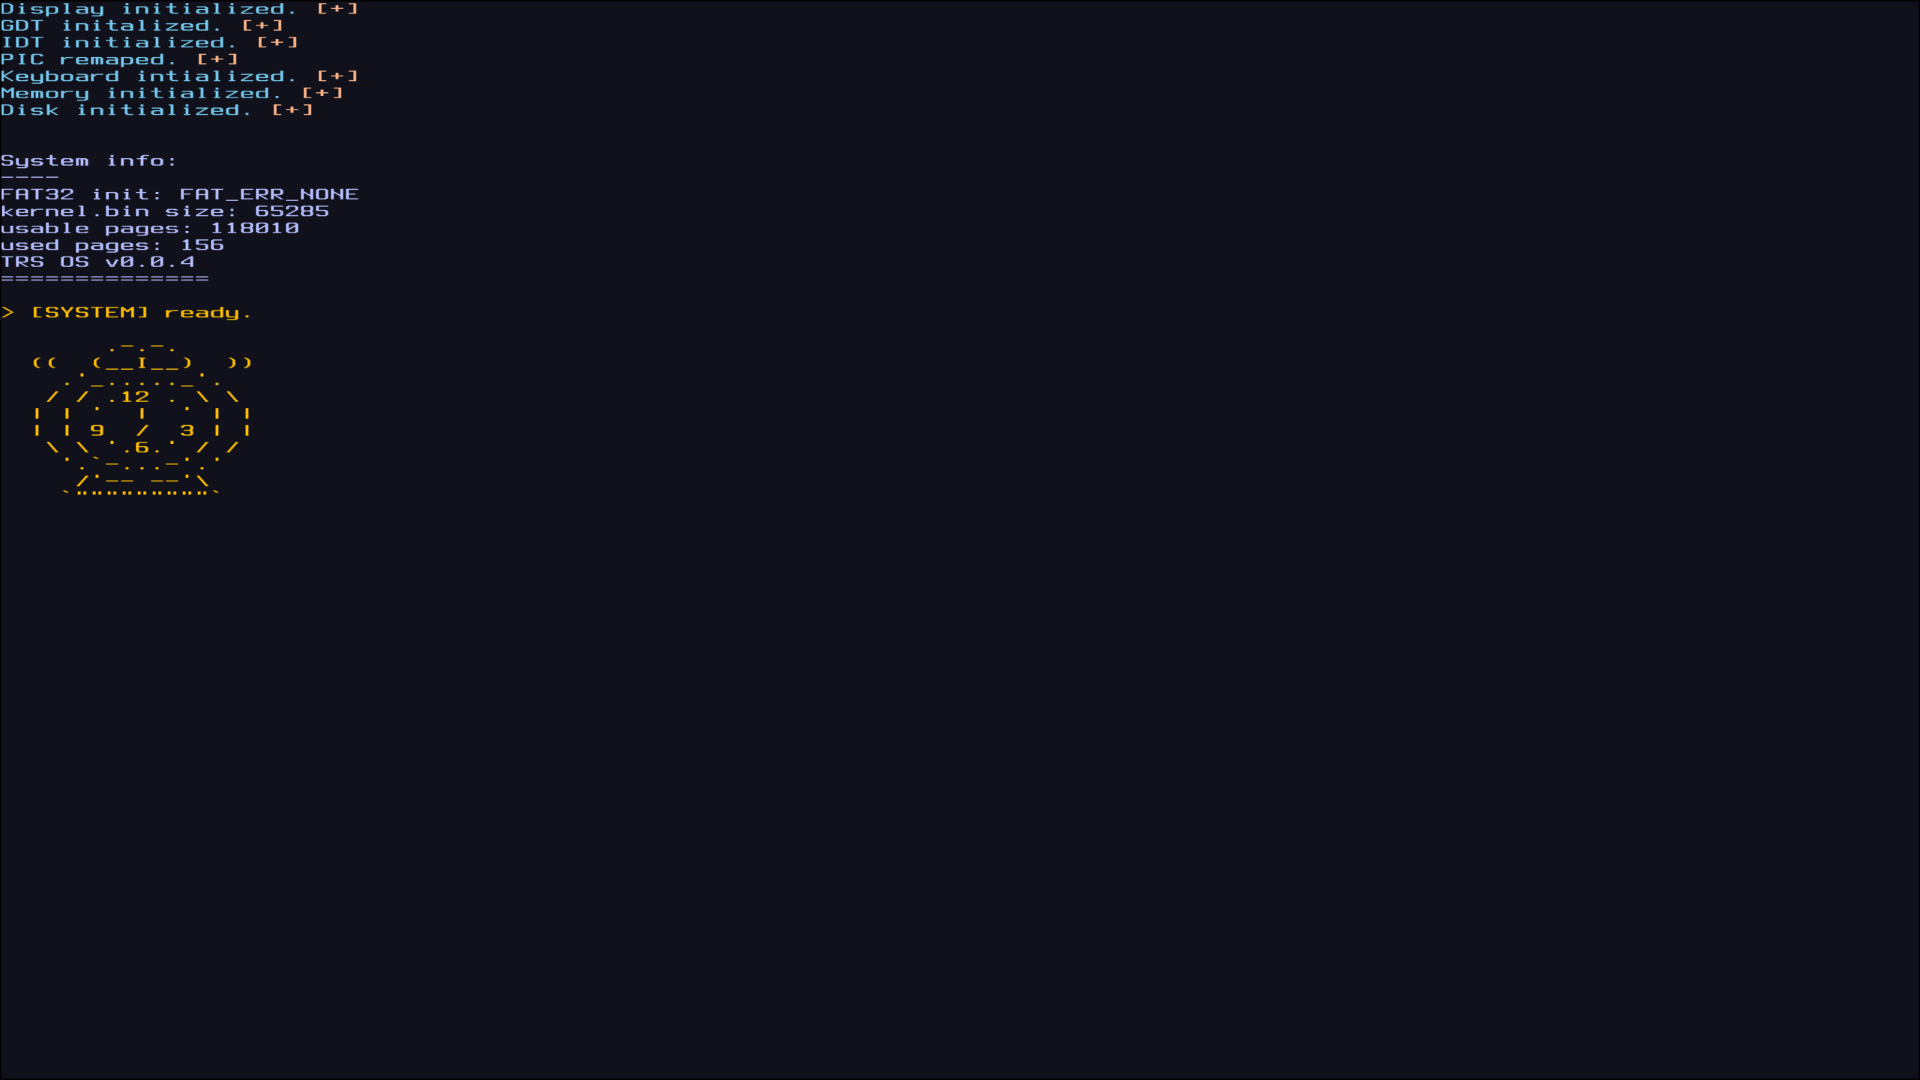
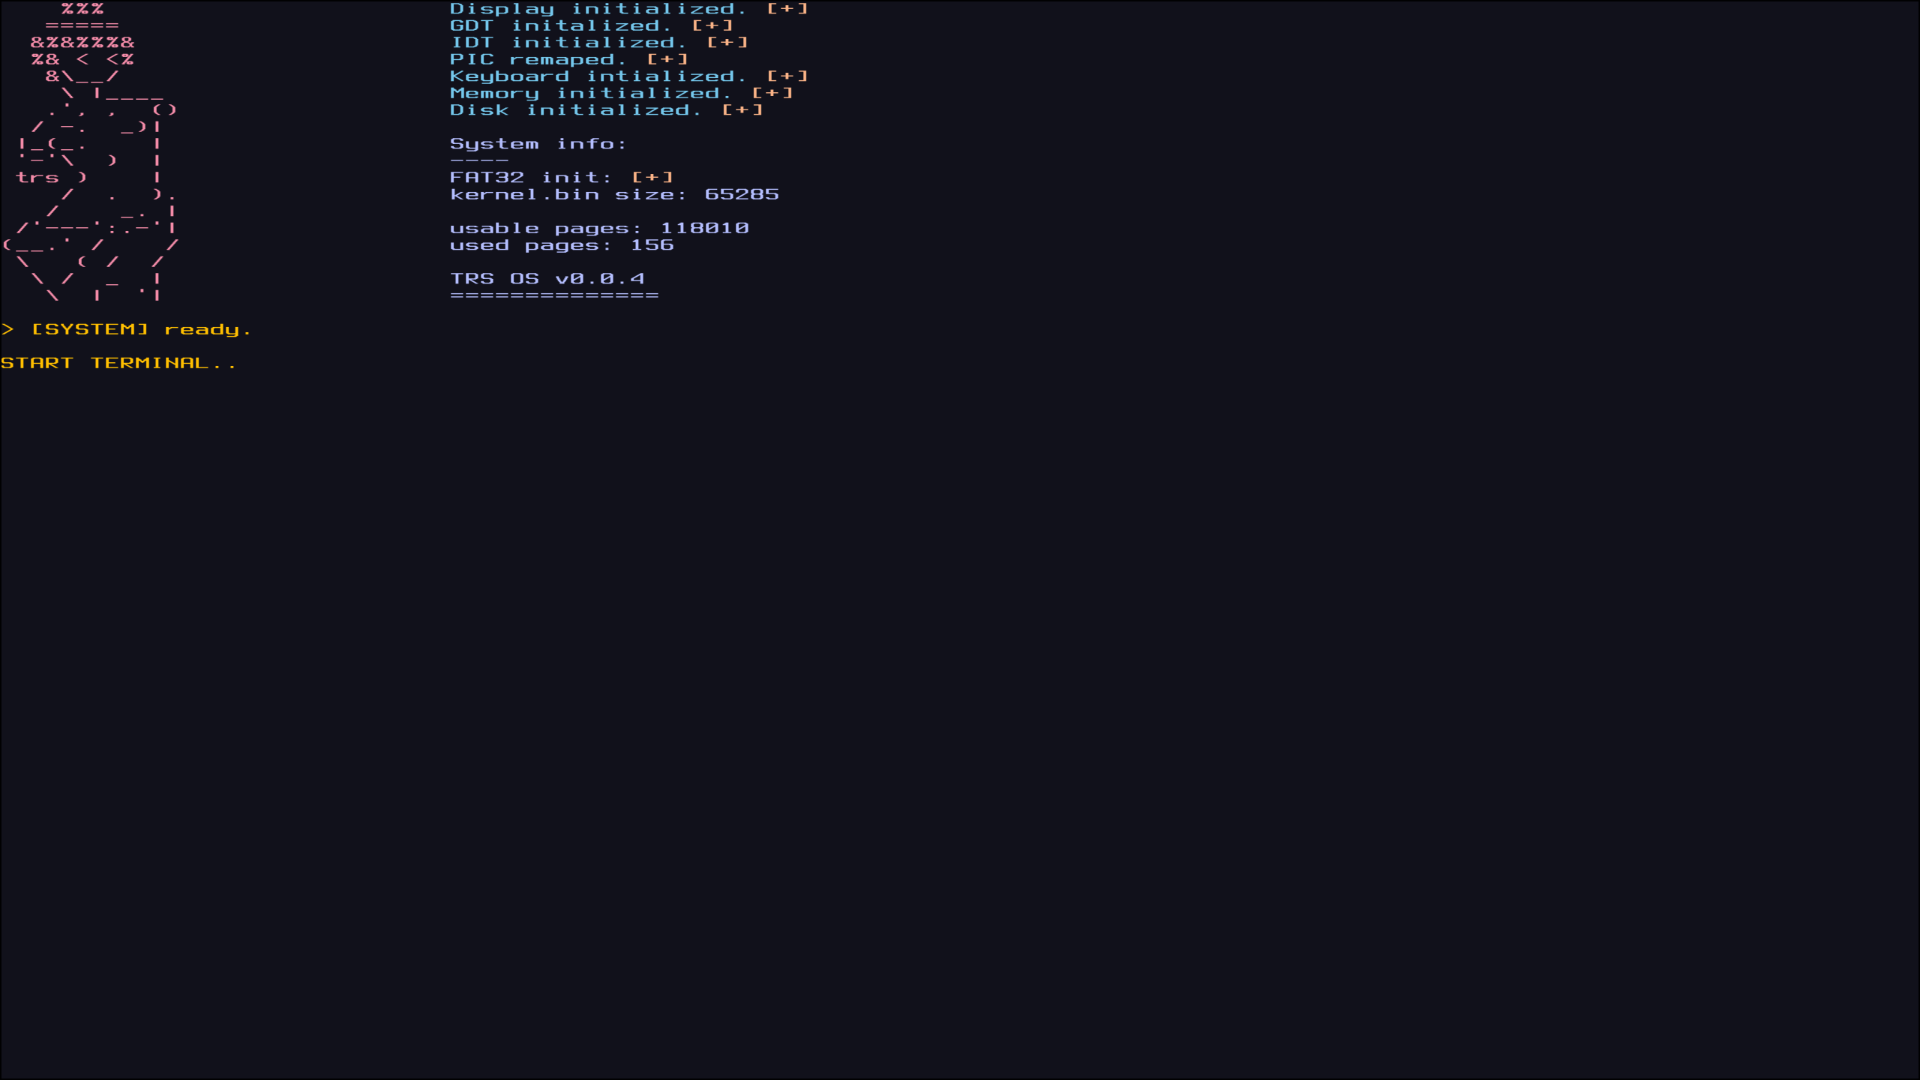
Output update

diff --git a/kernel/kernel.c b/kernel/kernel.c
@@ -3,7 +3,7 @@
     = TSEZAR TSEZAR TSEZAR TSEZAR TSEZAR =
     ======================================
     = Tsezar Relaible System   - Kernel  =
-    = -------------------------- v 0.0.3 =
+    = -------------------------- v 0.0.4 =
     ======================================
 */
 
@@ -28,6 +28,17 @@ boot_info_t _boot;
 #define YES \
     dsp_set_color(_Peach, _Crust); \
     dsp_print("[+]\n"); \
+
+static const char* statue[24] = {"    %%%", "   =====","  &%&%%%&", "  %& < <% ",
+"   &\\__/","    \\ |____","   .', ,  ()","  / -.  _)| "," |_(_.    |",
+" '-'\\  )  |"," trs )    |","    /  .  ).","   /    _. |"," /'---':.-'|",
+"(__.' /    /"," \\   ( /  /","  \\ /  _  | ","   \\  |  '|","  | . \\  |",
+"   |(     | ","   |  \\ \\ |","    \\  )\\ |","   __)/ / \\","--\"--(_.Ooo'----" };
+
+#define PRINT_STATUE \
+    dsp_set_color(_Red, _Crust); \
+    dsp_print(statue[i++]); \
+    dsp_set_cursor(30, 0); \
     dsp_set_color(_Sapphire, _Crust);
 
 void kmain(boot_info_t* bi) {
@@ -38,80 +49,101 @@ void kmain(boot_info_t* bi) {
     pic_remap(IRQ_BASE);
     idt_init();
 
+    int i = 0;
     dsp_init(_boot.fb);
+    PRINT_STATUE
     dsp_set_color(_Sapphire, _Crust);
     dsp_print("Display initialized. ");
     YES
 
+    PRINT_STATUE
     dsp_print("GDT initalized. ");
     YES
 
+    PRINT_STATUE
     dsp_print("IDT initialized. ");
     YES
-
+    
+    PRINT_STATUE
     dsp_print("PIC remaped. ");
     YES
 
+    PRINT_STATUE
     kb_init();
     dsp_print("Keyboard intialized. ");
     YES
 
+    PRINT_STATUE
     pmm_init(&_boot);
     dsp_print("Memory initialized. ");
     YES
 
+    PRINT_STATUE
     disk_init();
     dsp_print("Disk initialized. ");
     YES
-    
+
+    PRINT_STATUE
+    dsp_print("\n");
+    PRINT_STATUE
     dsp_set_color(_Lavender, _Crust);
-    dsp_print("\n\nSystem info:\n----\n");
+    dsp_print("System info:\n");
+    PRINT_STATUE
+    dsp_set_color(_Lavender, _Crust);
+    dsp_print("----");
     int ferr = fat32_init(0);
+    dsp_print("\n");
+    PRINT_STATUE
+    dsp_set_color(_Lavender, _Crust);
     dsp_print("FAT32 init: ");
-    dsp_print(fat_get_error(ferr));
+    dsp_print(ferr ? fat_get_error(ferr) : "");
+    YES
 
     if(ferr == FAT_ERR_NONE) {
         DirInfo info;
         if(fat_stat("/sys/space/sys/kern/kernel.bin", &info) == FAT_ERR_NONE) {
-            dsp_print("\nkernel.bin size: ");
+            PRINT_STATUE
+            dsp_set_color(_Lavender, _Crust);
+            dsp_print("kernel.bin size: ");
             dsp_print_dec((int)info.size);
             dsp_print("\n");
+            PRINT_STATUE
         } else {
             kpanic("NO DISK", __FILE__, __LINE__);
         }
     }
+    dsp_print("\n");
+    PRINT_STATUE
+    dsp_set_color(_Lavender, _Crust);
     dsp_print("usable pages: ");
     dsp_print_dec(pmm_usable_pages());
-    dsp_print("\nused pages: ");
+    dsp_print("\n");
+    PRINT_STATUE
+    dsp_set_color(_Lavender, _Crust);
+    dsp_print("used pages: ");
     dsp_print_dec(pmm_used_pages());
 
-    dsp_print("\nTRS OS v" __TRS_VERSION "\n");
+    dsp_print("\n");
+    PRINT_STATUE
+    dsp_set_color(_Lavender, _Crust);
+    dsp_print("\n");
+    PRINT_STATUE
+    dsp_set_color(_Lavender, _Crust);
+    dsp_print("TRS OS v" __TRS_VERSION "\n");
+    PRINT_STATUE
+    dsp_set_color(_Lavender, _Crust);
     dsp_print("==============\n\n");
 
     dsp_set_color(_Yantar, _Crust);
     dsp_print("> [SYSTEM] ready.\n\n");
 
-    dsp_print("       .-.-.\n" "  ((  (__I__)  ))\n" "    .'_....._'.\n" "   / / .12 . \\ \\\n" "  | | '  |  ' | |\n" "  | | 9  /  3 | |\n");
-    dsp_print("   \\ \\ '.6.' / /\n" "    '.`-...-'.'\n" "     /'-- --'\\\n" "    `\"\"\"\"\"\"\"\"\"` \n");
-    
-    #define PANIC_TEST 0
-
     __asm__ volatile("sti");
 
 
     dsp_set_color(_Yantar, _Crust);
-    //dsp_print("START TERMINAL..");
+    dsp_print("START TERMINAL..");
     //start_process("space/sys/term.pro")
-    stream_t* kb = kbd_get_stream();
-
-    char c;
     while(1) {
-        __asm__ volatile ("cli");
-        if(stream_try_read(kb, &c, 1) == 1) { 
-            __asm__ volatile("sti");
-            dsp_putchar(c);
-            continue;
-        }
         __asm__ volatile ("sti; hlt");
     }
 }

diff --git a/kernel/driver/image.c b/kernel/driver/image.c
@@ -171,3 +171,8 @@ void dsp_print_hex(unsigned long long v) {
     buf[18] = '\0';
     dsp_print(buf);
 }
+
+void dsp_set_cursor(unsigned int x, unsigned int y) {
+    dsp_x = x ? x * font->width : dsp_x;
+    dsp_y = y ? y * font->height : dsp_y;
+}

diff --git a/kernel/inc/image.h b/kernel/inc/image.h
@@ -10,6 +10,7 @@
 
 void dsp_init(framebuf_info_t frame);
 void dsp_set_color(unsigned int col_fg, unsigned int col_bg);
+void dsp_set_cursor(unsigned int x, unsigned int y);
 void dsp_clear(void);
 
 void dsp_print(const char* str);
